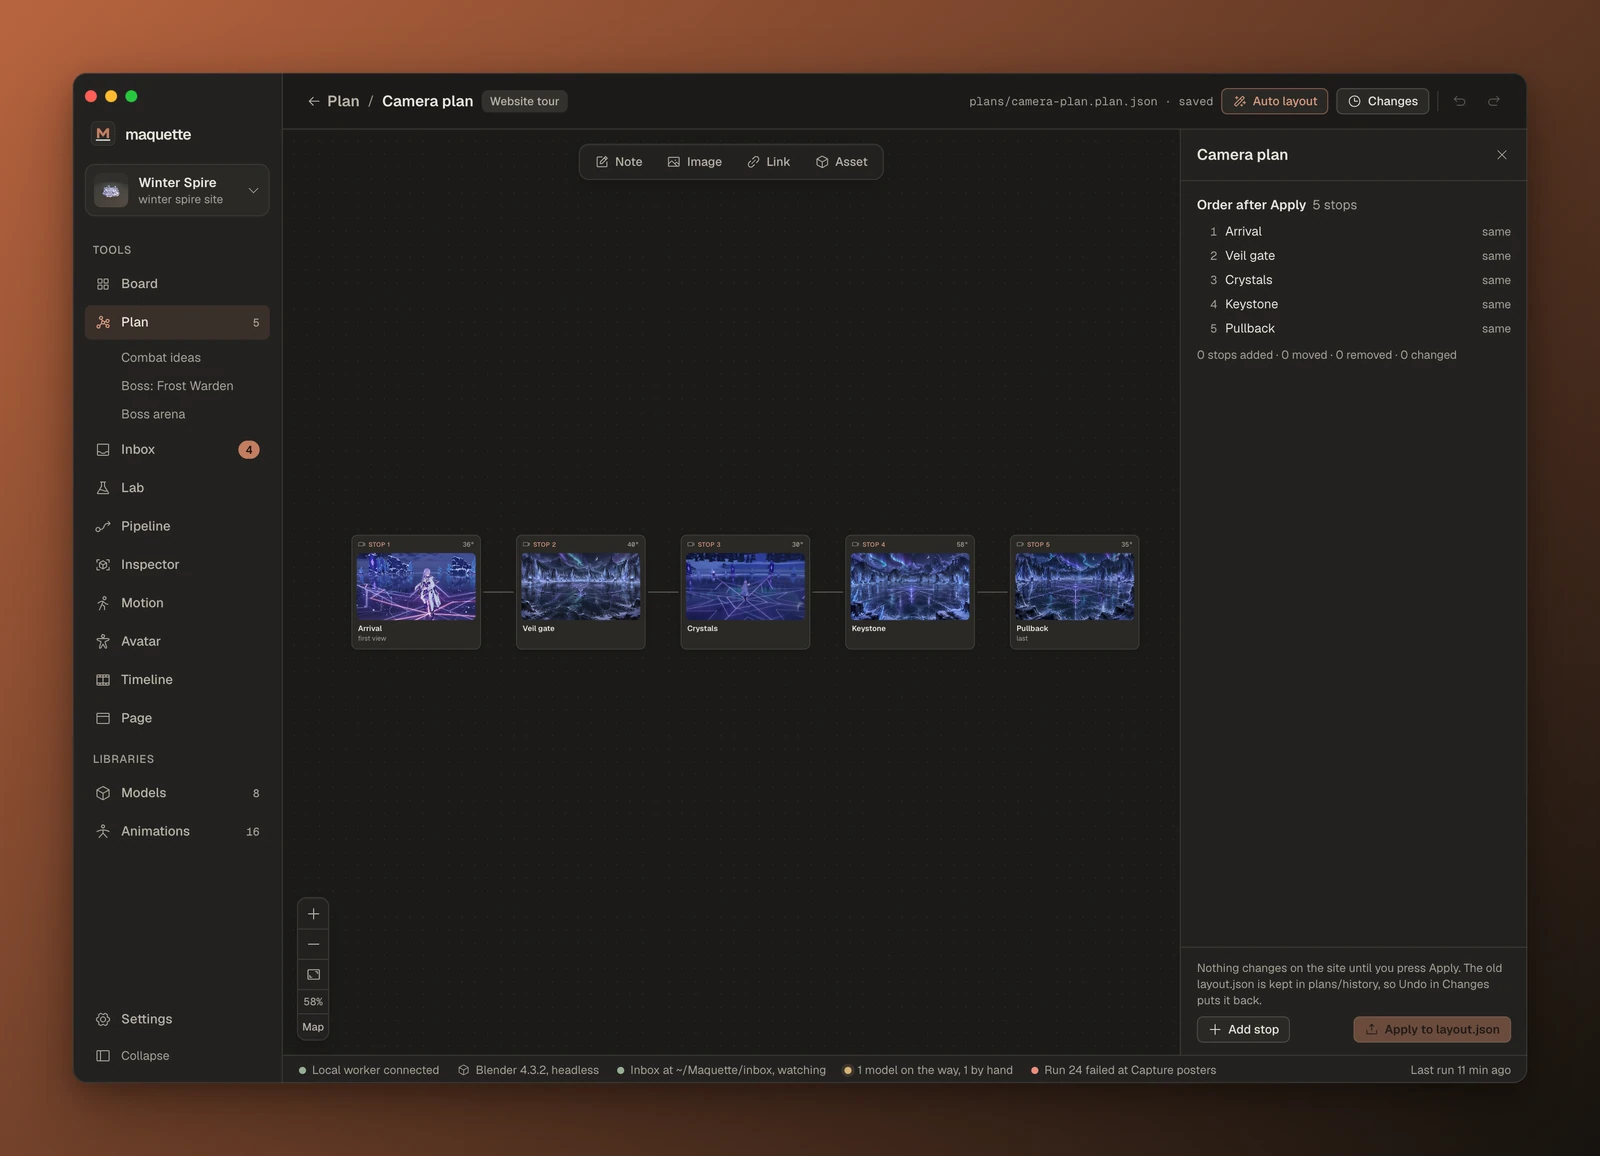
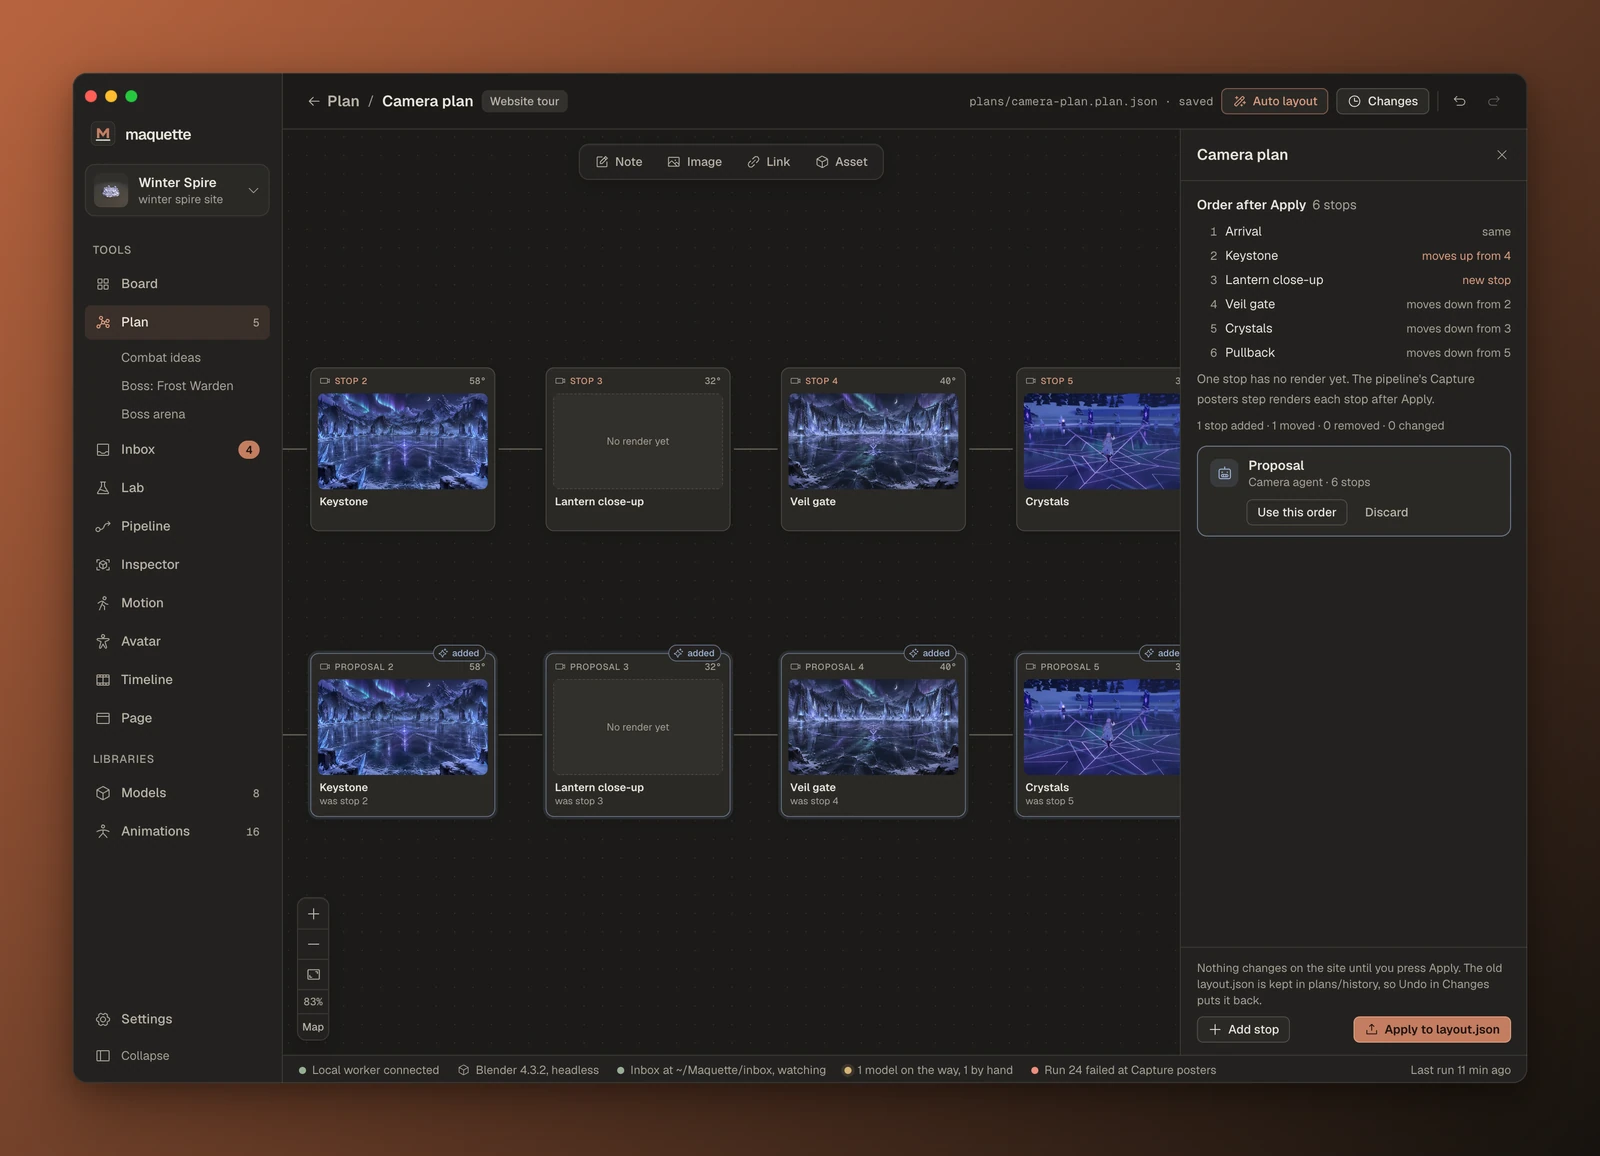
docs(docs): show the tool groups in one column and a camera agent's proposal

diff --git a/apps/site/src/content/copy.ts b/apps/site/src/content/copy.ts
@@ -244,10 +244,10 @@ export const SHOTS = {
     caption: 'two requests from an agent',
   },
   agents: {
-    ...screen('settings-agents'),
-    alt: 'Settings, Agents: server listening on 127.0.0.1:4791, toggles, and the activity list.',
+    ...screen('settings-agents', 1200, 900),
+    alt: 'Settings, Agents: the MCP tool groups with a tool count and a switch each, 127 of 134 tools offered.',
     tool: 'Settings',
-    caption: 'Agents, every call in the activity list',
+    caption: 'Agents, the tool groups an agent is offered',
   },
   toolchain: {
     ...screen('toolchain'),
